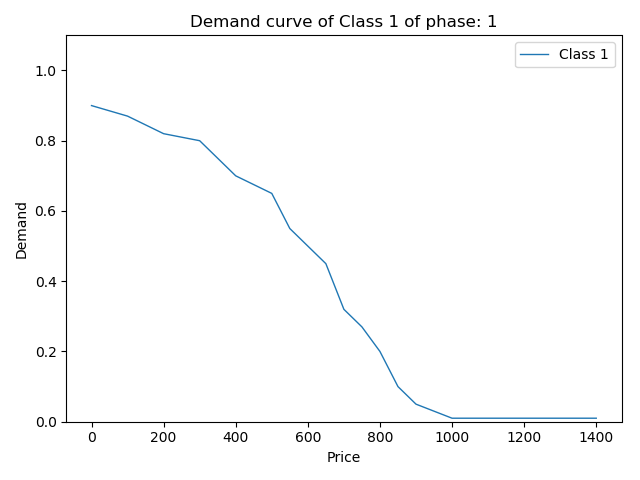
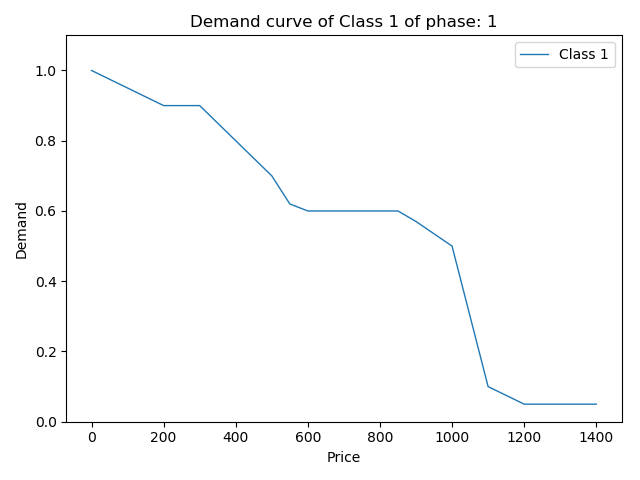
plots for documentation

diff --git a/mainPlot.py b/mainPlot.py
@@ -21,7 +21,7 @@ def plot_single_curves(phase, class_num):
     plt.xlabel("Price")
     plt.ylabel("Demand")
     plt.ylim(0, 1.1)
-    plt.title("Demand curve of {} of phase: {}".format(legend.get(class_num), phase))
+    plt.title("Demand curve of {} of phase: {}".format(legend.get(class_num), phase+1))
     plt.plot(Data.total_curve_values[class_num][phase][1], Data.total_curve_values[class_num][phase][0],
              colors.get(class_num), linewidth=1, markersize=1)
     plt.legend([legend.get(class_num)])
@@ -37,7 +37,7 @@ def plot_phase_curves(phase):
     plt.xlabel("Price")
     plt.ylabel("Demand")
     plt.ylim(0, 1.1)
-    plt.title('Demand curves of phase: %i' % phase)
+    plt.title('Demand curves of phase: {}'.format(phase+1))
     for i in range(len(Data.total_curve_values)):
         linewidth = 1
         if i == 3:
@@ -56,7 +56,7 @@ def plot_rewards(phase):
     plt.figure(0)
     plt.xlabel("Price")
     plt.ylabel("Reward")
-    plt.title('Reward curves of phase: %i' % phase)
+    plt.title('Reward curves of phase: {}'.format(phase+1))
     for i in range(len(Data.total_curve_values)):
         linewidth = 1
         if i == 3:

diff --git a/Data.py b/Data.py
@@ -19,7 +19,7 @@ Phases and time horizon:
 months_per_phases = [7, 3, 2, 3]
 day_per_months = 30
 
-samples_per_day = 1
+samples_per_day = 20
 samples_per_week = samples_per_day * 7
 samples_per_month = samples_per_week * 4
 

diff --git a/run_experiment.py b/run_experiment.py
@@ -17,7 +17,7 @@ margins = Data.margins
 t_horizon = Data.t_horizon
 window_size = int(np.sqrt(t_horizon))
 
-n_experiments = 1
+n_experiments = 100
 
 ts_reward_per_experiment = []
 ucb1_reward_per_experiment = []
